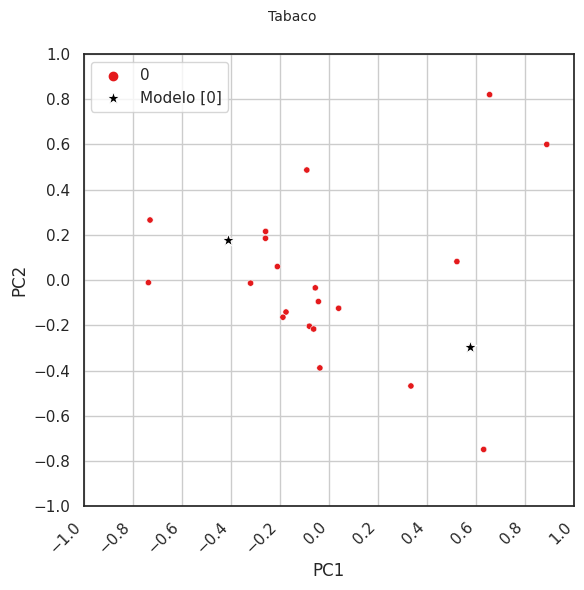
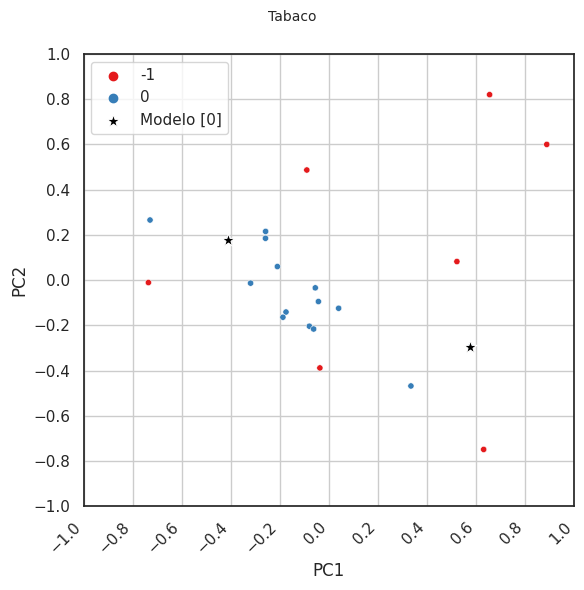
dbscan listorti

diff --git a/reports/tp3_informe.md b/reports/tp3_informe.md
@@ -112,35 +112,38 @@ Para clusterizar utilizando DBSCAN, primero determinamos el `eps` óptimo para c
 
 ![codo4](figures/tp3_dbscan_Miscelaneo.png)
 
-Este patrón se repite para todos los subrubros, salvo para el caso de `Tabaco`, donde no se encuentra ningún outlier: este rubro consta de 22 vendedores únicos, donde los datos están muy dispersos.
+Observamos entonces que DBSCAN es más útil ya que no requiere de una intervención humana. Los resultados de este modelo para cada subrubro se tabulan a continuación. Las variables son:
+* $N_{tot}$ >> cantidad total de vendedores únicos presentes en dicho subrubro.
+* $N_{mod}$ >> cantidad total de vendedores modelo presentes en dicho subrubro.
+* $R_{mod}$ >> proporción de vendedores modelo en dicho subrubro.
+    $$R_{mod} = \frac{N_{mod}}{N_{tot}} * 100$$
+* $\epsilon$ >> parámetro `eps` para DBSCAN en dicho subrubro.
+* $N_{min}$ >> parámetro `min_samples` para DBSCAN en dicho subrubro.
+* $N_{out}$ >> cantidad total de vendedores outliers encontrados en dicho subrubro.
+* $R_{out}$ >> proporción de vendedores outliers en dicho subrubro.
+    $$R_{out} = \frac{N_{out}}{N_{tot}} * 100$$
+
+|    Subrubro    | $N_{tot}$ | $N_{mod}$ | $R_{mod}$ |  $\epsilon$ | $N_{min}$ | $N_{out}$ | $R_{out}$ |
+|----------------|-----------|-----------|-----------|-------------|-----------|-----------|-----------|
+| Com. Varios    |    301    |     4     |   1.33 %  |     0.30    |     23    |     29    |   9.63 %  |
+| Comb.          |    189    |     6     |   3.17 %  |     0.25    |     23    |     15    |   7.94 %  |
+| Comb. Ley      |    195    |     3     |   1.54 %  |     0.60    |     23    |      5    |   2.56 %  |
+| Farmacia       |    173    |     4     |   2.31 %  |     0.40    |     23    |     16    |   9.25 %  |
+| Gondola        |    409    |     3     |   0.73 %  |     0.25    |     23    |     22    |   5.38 %  |
+| Miscelaneo     |   1240    |    20     |   1.61 %  |     0.15    |     23    |     70    |   5.65 %  |
+| Supermercados  |    136    |     2     |   1.47 %  |     0.35    |     23    |     18    |  13.24 %  |
+| Tabaco         |     22    |     2     |   9.09 %  |     0.70    |     11    |      7    |  31.82 %  |
+| Vehiculos      |    221    |     1     |   0.45 %  |     0.30    |     23    |     18    |   8.14 %  |
+| Venta Agrop.   |    249    |     1     |   0.40 %  |     0.40    |     23    |     17    |   6.83 %  |
+
+Esto es sobre un total de 3135 vendedores únicos con 46 modelos (1.47 % del total), dando un total de 217 outliers (6.92 % del total). En la siguiente figura se observa el clustering para `Tabaco`. Teniendo en cuenta esto junto a los resultados de la tabla, concluimos que necesitamos más datos para poder establecer un modelo útil para este subrubro.
 
 ![codo4](figures/tp3_dbscan_Tabaco.png)
-
-Observamos entonces que DBSCAN es más útil ya que no requiere de una intervención humana. Los resultados de este modelo para cada subrubro se tabulan a continuación. El valor de $N$ es la cantidad de vendedores únicos presentes en dicho subrubro, mientras que $R$ es la proporción de outliers.
-    $$R = \frac{outliers}{N} * 100$$
-
-|    Subrubro    |   N  | eps  | min_samples | outliers |    R    |
-|----------------|------|------|-------------|----------|---------|
-| Com. Varios    |  301 | 0.30 |      23     |    29    |  9.63 % |
-| Comb.          |  189 | 0.25 |      23     |    15    |  7.94 % |
-| Comb. Ley      |------|------|-------------|----------|---------|
-| Farmacia       |  173 | 0.40 |      23     |    16    |  9.25 % |
-| Gondola        |  409 | 0.25 |      23     |    22    |  5.38 % |
-| Miscelaneo     | 1240 | 0.15 |      23     |    70    |  5.64 % |
-| Supermercados  |  136 | 0.35 |      23     |    18    | 13.24 % |
-| Tabaco         |   22 | 0.70 |      11     |     7    | 31.82 % |
-| Vehiculos      |  221 | 0.30 |      23     |    18    |  8.14 % |
-| Venta Agrop.   |  249 | 0.40 |      23     |    17    |  6.83 % |
 
 ### Parte 4: Evaluación de resultados
 * sdasda
 
 ---
-# Conclusiones
+# Conclusiones: accionables
 
 asdasdasda
-
----
-# Accionables
-
-asdasdas
